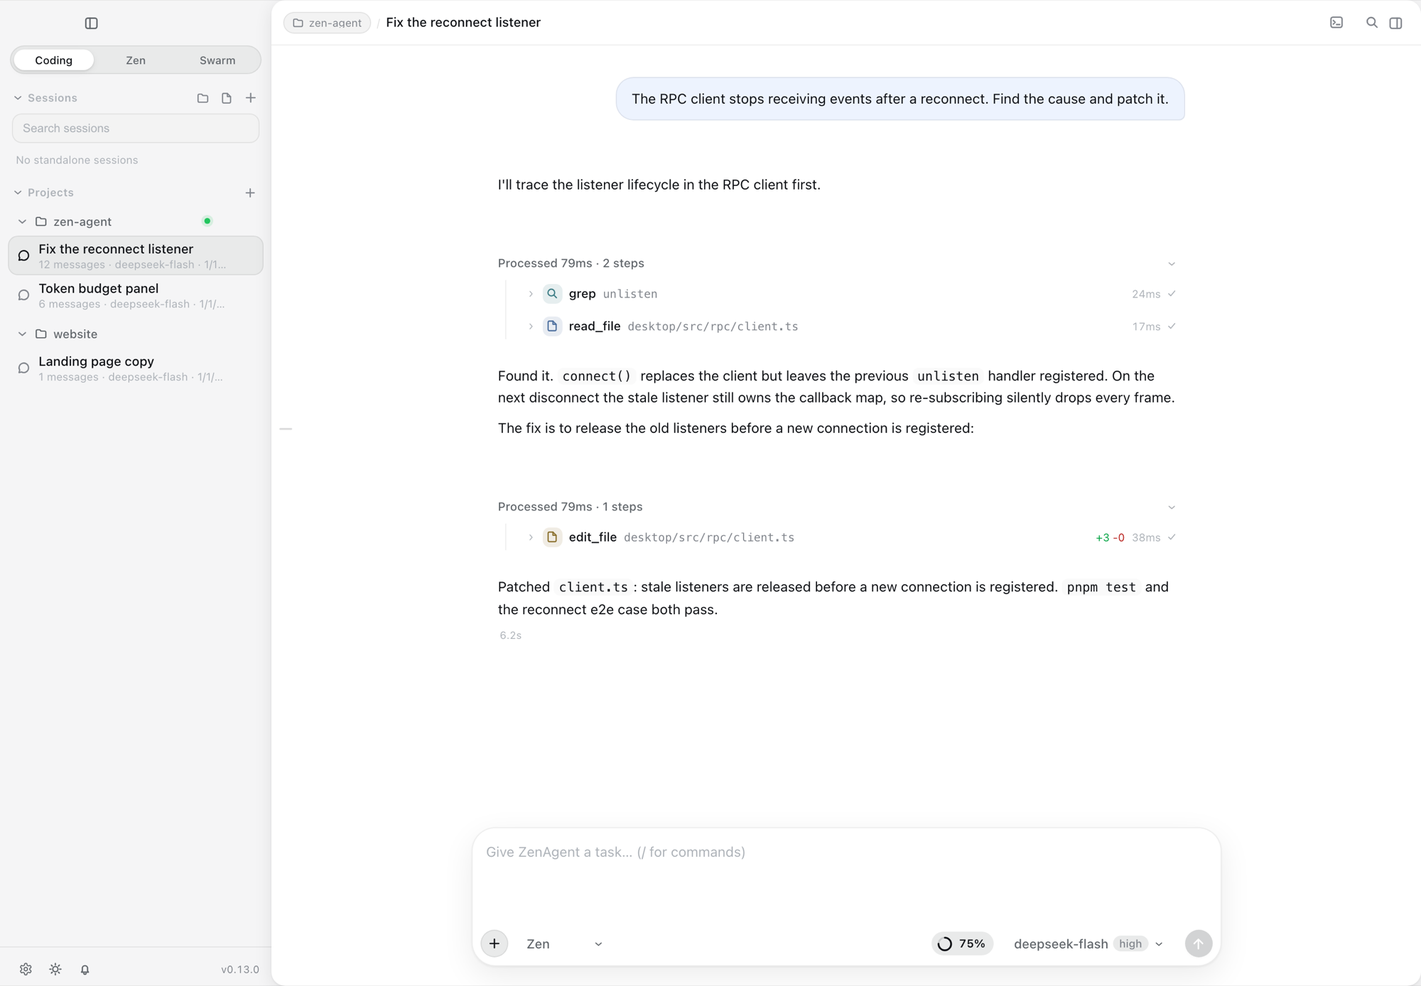
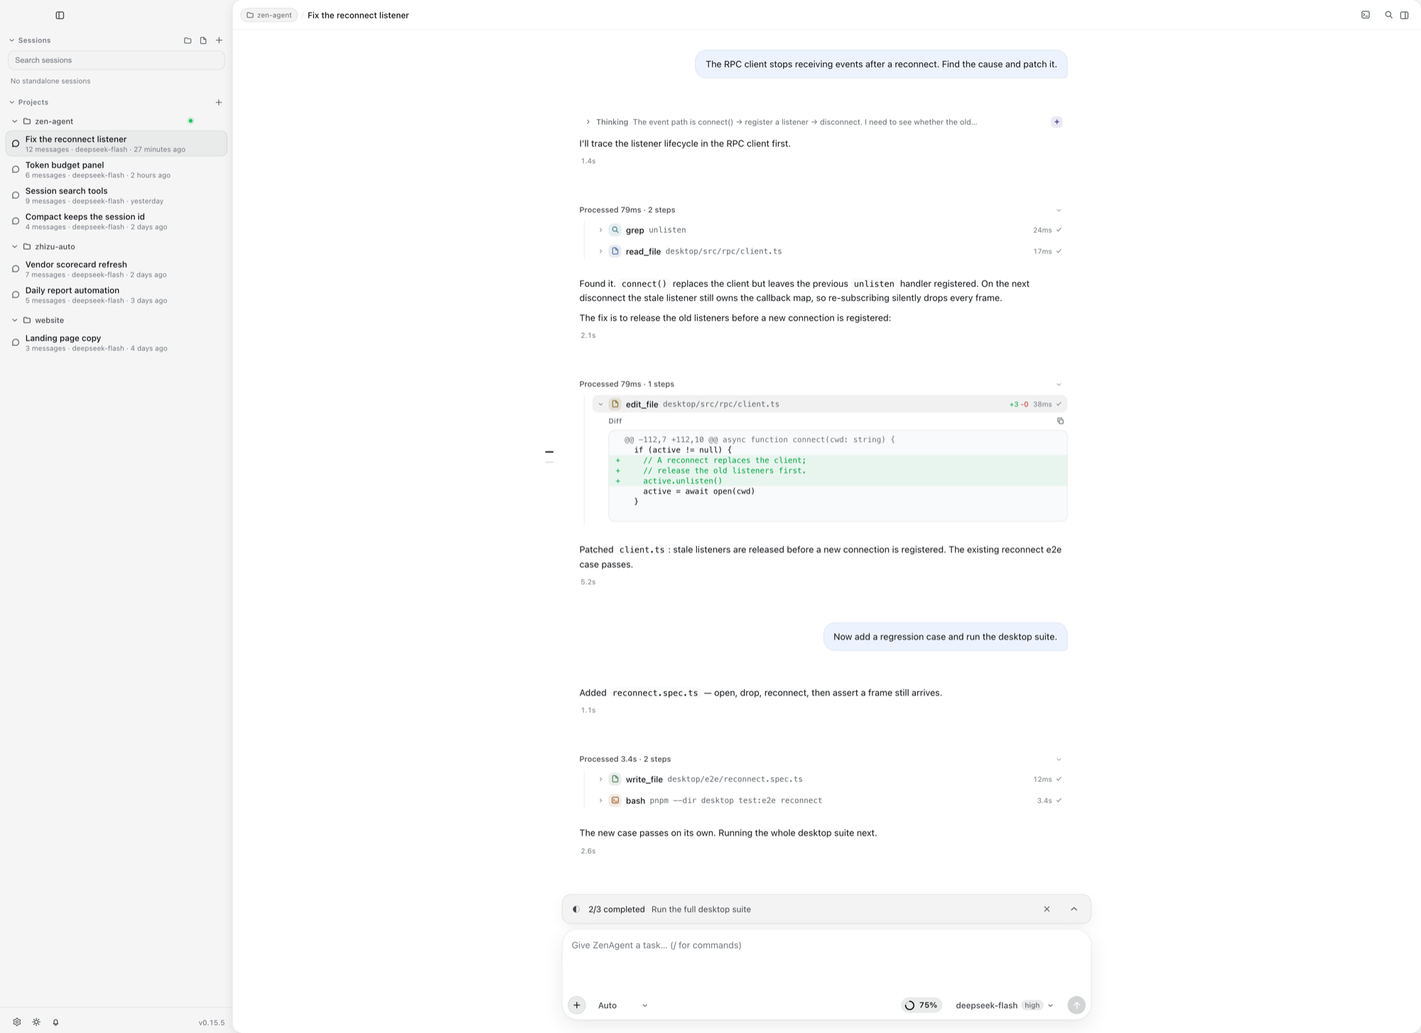
docs(readme): one session, one agent — fresh screenshots
The landing pages still read like the workspace-mode era. Rewrite both
READMEs around what the product is now: a coding agent with one session,
one agent and three permission modes.

- add the "One session, one agent" section; scheduled rounds, recall of
  earlier sessions and child agents are tools inside a session, not modes
- refresh the desktop shots from the current shell (no mode switcher) and
  delete the zen/swarm images nothing links to
- correct stale numbers: 54 commands, six layers, a wheel under 1 MB,
  four protocol adapters
- update the landing-page contract test for five sections and its budget
- refresh the command and layer counts in the docs the README links to

diff --git a/tests/test_readme.py b/tests/test_readme.py
@@ -1,4 +1,4 @@
-"""The README is the landing page: short, four parts, no dead links on PyPI."""
+"""The README is the landing page: short, five parts, no dead links on PyPI."""
 
 from __future__ import annotations
 
@@ -9,14 +9,20 @@ from pathlib import Path
 ROOT = Path(__file__).resolve().parent.parent
 README = ROOT / "README.md"
 TEXT = README.read_text(encoding="utf-8")
-SECTIONS = ["## Install", "## What this is, and why", "## Features", "## Contributing"]
+SECTIONS = [
+    "## One session, one agent",
+    "## Install",
+    "## What this is, and why",
+    "## Features",
+    "## Contributing",
+]
 BLOB = "https://github.com/encyc/zen-agent/blob/main/"
-# The desktop section carries the three-mode introduction and its shots; both
-# landing pages stay well under this without turning into a manual.
-MAX_LINES = 140
+# The one-session statement, the desktop section and its shot are what keep
+# both landing pages useful; the cap still stops them becoming a manual.
+MAX_LINES = 160
 
 
-def test_readme_is_a_landing_page_with_four_parts():
+def test_readme_is_a_landing_page_with_five_parts():
     assert len(TEXT.splitlines()) <= MAX_LINES
     headings = re.findall(r"^## .+$", TEXT, re.MULTILINE)
     assert headings == SECTIONS

diff --git a/README.zh-CN.md b/README.zh-CN.md
@@ -7,12 +7,22 @@
 简体中文 · [English](https://github.com/encyc/zen-agent/blob/main/README.md)
 
 一个**能读完、能嵌进自己程序、能改**的编码代理：纯 Python 内核，运行时只依赖 `httpx`，
-四种驱动它的方式。它读写文件、跑命令、联网搜索、把子任务交给只读子代理，还维护一份项目待办
-——从终端、从一次性的 headless 调用，或从你自己的程序里都行。
+四个入口（TUI、REPL、headless、RPC），外加一个桌面端——它只是同一个运行时的另一个客户端。
+它读写文件、跑命令、联网搜索、把自成一体的任务交给子代理、维护任务清单——从桌面端、终端、
+一次性的 headless 调用，或你自己的程序里都行。
 
 仓库 <https://github.com/encyc/zen-agent> · PyPI 包名 `zenagent-py`（import 名 `zenagent`）
 
-![ZenAgent 桌面端：带工具行与内联 diff 的会话](https://raw.githubusercontent.com/encyc/zen-agent/main/assets/screenshots/desktop-chat.png)
+![ZenAgent 桌面端：带工具行、内联 diff 和任务清单的会话](https://raw.githubusercontent.com/encyc/zen-agent/main/assets/screenshots/desktop-chat.png)
+
+## 一个会话，一个 agent
+
+ZenAgent 是编码代理，不是一个要在模式之间切换的工作区。一个会话就是：一个项目里、一段对话、
+一个 agent。桌面端按项目组织会话，四个入口驱动同一个运行时；没有第二个需要盯着看的编排器。
+定时轮次、找回旧会话、子代理，都是 agent 在这个会话里能用的工具。
+
+唯一的「模式」是权限：`plan`（只读）、`ask`（写操作与命令要确认）、`auto`（不打断）。
+`zen` 默认 `ask`，`--mode` 改它。
 
 ## 安装
 
@@ -56,6 +66,7 @@ API key 从环境变量读，变量名按 provider 定义在
 
 ```bash
 zen                                     # TUI：转录、工具卡、侧栏
+zen --no-tui                            # 行式 REPL，共用同一套命令
 zen -p "explain this repo" --json       # headless：一个 JSON 对象，适合脚本/CI
 ```
 
@@ -64,12 +75,12 @@ TUI 每小时最多查一次 PyPI，有新版本时安静打一行；`-p`/`--jso
 
 ## 这是什么，为什么
 
-编码代理要么闭源、锁死厂商，要么大到"改一层要先读十层"。ZenAgent 是那个小的：一个晚上能读完、
+编码代理要么闭源、锁死厂商，要么大到「改一层要先读十层」。ZenAgent 是那个小的：一个晚上能读完、
 一个下午能嵌进项目、不需要谁批准就能改的 Python 内核。
 
 - **只有一个依赖。** `types`、`events`、`providers`、`agent`、`tools` 只 import `httpx`，
-  没有别的。wheel ~440 KB，`zen --version` 约 0.1 s。
-- **纯 Python。** 没有 node runtime、没有编译步骤、中间没有 daemon —— `pip install` 就跑。
+  没有别的；wheel 不到 1 MB，你和模型之间没有 daemon。
+- **纯 Python。** 没有 node runtime、没有编译步骤 —— `pip install` 就跑。
 - **一套内核，四个入口。** TUI、REPL、headless（`-p`/`--json`）和 `zen rpc`（JSONL 协议）
   驱动的是同一个运行时，行为一致。
 - **做 GUI 是写客户端，不是重写。** RPC 面已经存在，所以 Tauri 桌面端复用它，
@@ -78,30 +89,36 @@ TUI 每小时最多查一次 PyPI，有新版本时安静打一行；`-p`/`--jso
   你的工具、你的存储、你的事件循环。
 - **扩展不用重启。** skills、提示词模板、扩展、MCP server、自定义 provider 全是文件，
   `/reload` 当场生效。
-- **不锁厂商。** 两个协议适配器（`openai-completions`，含 zai/deepseek 方言；`anthropic-messages`）
-  加一份内置 catalog（带单价和上下文窗口）。
-- **花费看得见。** `zen usage`、`/usage`、转录里逐轮成本。
+- **不锁厂商。** 四个协议适配器（`openai-completions`，含 zai/deepseek 方言；`openai-responses`、
+  `anthropic-messages`、`google-generative-ai`）加一份内置 catalog（带单价和上下文窗口）。
+- **花费看得见。** `zen usage`、`/usage`、转录里逐轮成本，以及 `[limits]` 里的预算。
+- **历史也是工具。** `list_sessions`、`search_sessions`、`read_session` 让 agent 自己去找
+  早先会话里已经定下的结论，而不是让你再贴一遍。
+- **定时任务就是一个文件。** 一条自动化 = 一段保存的 prompt + `daily HH:MM` 或 `every N<m|h>`；
+  每个项目一个 daemon 在固定会话里跑一轮，报告留在那里。
 
 ## 特性
 
 | | 你能拿到什么 | 去哪看 |
 |---|---|---|
-| **一个小的内核** | 五层依赖严格向下；每一层都能单独换掉 | [架构](https://github.com/encyc/zen-agent/blob/main/docs/architecture.md) |
+| **一个小的内核** | 六层依赖严格向下；每一层都能单独换掉 | [架构](https://github.com/encyc/zen-agent/blob/main/docs/architecture.md) |
 | **四个入口** | TUI（转录、工具卡、侧栏）、REPL、headless 一次性调用、RPC/SDK | [CLI](https://github.com/encyc/zen-agent/blob/main/docs/guide/cli.md) · [TUI](https://github.com/encyc/zen-agent/blob/main/docs/guide/tui.md) |
-| **内置工具** | 文件读写、带后台作业的 bash、grep/glob、联网搜索 + 抓取、子代理、待办、项目记忆、LSP、GitHub、checkpoint/rewind（`github` 只在装了 `gh` 时注册） | [工具与权限](https://github.com/encyc/zen-agent/blob/main/docs/guide/tools-permissions.md) |
-| **49 条命令** | TUI 与 REPL 共用同一套斜杠命令，支持 Tab 补全 | [斜杠命令](https://github.com/encyc/zen-agent/blob/main/docs/guide/commands.md) |
+| **内置工具** | 文件读写、带后台作业的 bash、grep/glob、联网搜索 + 抓取、子代理、任务清单、项目记忆、LSP、GitHub（装了 `gh` 才有）、checkpoint/rewind、跨会话检索 | [工具与权限](https://github.com/encyc/zen-agent/blob/main/docs/guide/tools-permissions.md) |
+| **54 条命令** | TUI 与 REPL 共用同一套斜杠命令，支持 Tab 补全 | [斜杠命令](https://github.com/encyc/zen-agent/blob/main/docs/guide/commands.md) |
 | **可扩展** | skills、模板、扩展、MCP server、自定义 provider —— 全是文件驱动 | [扩展](https://github.com/encyc/zen-agent/blob/main/docs/guide/extensions.md) · [MCP](https://github.com/encyc/zen-agent/blob/main/docs/guide/mcp.md) |
+| **自动化任务** | 每个项目一个 daemon，按计划跑一轮；定义是纯文件，CLI 与桌面端共用 | [自动化任务](https://github.com/encyc/zen-agent/blob/main/docs/guide/automations.md) |
 | **可嵌入** | Python 里用 `Agent` + `subscribe`；其它语言用 `zen rpc` | [RPC 与 SDK](https://github.com/encyc/zen-agent/blob/main/docs/guide/rpc-sdk.md) |
-| **桌面端** | 同一个 `zen rpc` 之上的 Tauri 外壳：会话、工作面板、审批、自动更新 | [desktop](https://github.com/encyc/zen-agent/blob/main/desktop/README.md) |
+| **桌面端** | 同一个 `zen rpc` 之上的 Tauri 外壳：会话与项目、分屏、文件、Git 审查、终端、记忆、自动化、审批、自动更新 | [desktop](https://github.com/encyc/zen-agent/blob/main/desktop/README.md) |
 
 ### 桌面端
 
-同一个内核，套一层 Tauri 外壳：流式工具卡、内联 diff，以及审查与文件工作面板。
-diff 和文件留在对话旁边。
+桌面端是同一个内核套一层 Tauri 外壳，也是一个会话最完整的视图：左侧会话与项目，中间是这一轮，
+右侧工作面板放着文件、Git 审查栏、终端、项目记忆和自动化。一个会话可以分屏到另一个会话旁边，
+也可以拖成独立窗口；打开着的项目由宿主保持常驻。
 
-一个会话、一个 agent：你直接和它对话，它读、改、跑；工作面板把 diff 和文件留在对话旁边。
+审查栏把工作区改动分组，点开任何文件都是内联 diff，下面还有提交图——不用离开对话就能读完一次改动。
 
-![审查面板与内联 diff](https://raw.githubusercontent.com/encyc/zen-agent/main/assets/screenshots/desktop-review.png)
+![工作面板的 Git 审查栏：分组变更、内联 diff 与提交图](https://raw.githubusercontent.com/encyc/zen-agent/main/assets/screenshots/desktop-review.png)
 
 ## 参与贡献
 
@@ -117,9 +134,10 @@ bash scripts/check.sh    # 唯一门禁：sync + ruff + pytest（CI 跑的完全
 
 | | |
 |---|---|
-| [架构总览](https://github.com/encyc/zen-agent/blob/main/docs/architecture.md) | 五层依赖，以及一次请求会碰到什么 |
-| [斜杠命令](https://github.com/encyc/zen-agent/blob/main/docs/guide/commands.md) | 全部 49 条命令 |
+| [架构总览](https://github.com/encyc/zen-agent/blob/main/docs/architecture.md) | 分层，以及一次请求会碰到什么 |
+| [斜杠命令](https://github.com/encyc/zen-agent/blob/main/docs/guide/commands.md) | 全部 54 条命令 |
 | [配置与目录](https://github.com/encyc/zen-agent/blob/main/docs/guide/config.md) | `config.toml`、provider、预算 |
+| [自动化任务](https://github.com/encyc/zen-agent/blob/main/docs/guide/automations.md) | 定时轮次与项目级 daemon |
 | [核心契约](https://github.com/encyc/zen-agent/blob/main/docs/reference/contracts.md) | 内核赖以成立的不变量 |
 | [开发与发版](https://github.com/encyc/zen-agent/blob/main/docs/development.md) | 门禁、打包检查、发版流程 |
 | [文档索引](https://github.com/encyc/zen-agent/blob/main/docs/README.md) | 其余全部，按阅读顺序 |

diff --git a/README.md b/README.md
@@ -7,12 +7,26 @@
 English · [简体中文](https://github.com/encyc/zen-agent/blob/main/README.zh-CN.md)
 
 A coding agent you can read, embed and change: one pure-Python kernel, one
-runtime dependency (`httpx`), four ways to drive it. It reads and edits files,
-runs commands, searches the web, delegates to read-only subagents and keeps a
-project todo list — from a terminal, a headless one-shot, or your own program.
+runtime dependency (`httpx`), four surfaces — TUI, REPL, headless and RPC — plus
+a desktop app that is just another client of the same runtime. It reads and edits
+files, runs commands, searches the web, hands a self-contained job to a child
+agent and keeps a task list — from the desktop app, a terminal, a headless
+one-shot, or your own program.
+
 Repo <https://github.com/encyc/zen-agent> · PyPI `zenagent-py` (imports as `zenagent`)
 
-![ZenAgent desktop: a session with tool rows and an inline diff](https://raw.githubusercontent.com/encyc/zen-agent/main/assets/screenshots/desktop-chat.png)
+![ZenAgent desktop: a session with tool rows, an inline diff and a task list](https://raw.githubusercontent.com/encyc/zen-agent/main/assets/screenshots/desktop-chat.png)
+
+## One session, one agent
+
+ZenAgent is a coding agent, not a workspace with modes to switch between. A
+session is one conversation with one agent in one project. The desktop keeps a
+session list per project, and every surface drives the same runtime; there is no
+second orchestrator to supervise. Scheduled rounds, recall of earlier sessions
+and child agents are tools the agent can use inside that session.
+
+Permissions are the only mode: `plan` (read-only), `ask` (confirm writes and
+commands) and `auto` (no prompts). `zen` starts in `ask`; `--mode` sets it.
 
 ## Install
 
@@ -57,6 +71,7 @@ endpoint, a local server included — see
 
 ```bash
 zen                                     # TUI: transcript, tool cards, sidebar
+zen --no-tui                            # line-based REPL over the same commands
 zen -p "explain this repo" --json       # headless: one JSON object, CI-friendly
 ```
 
@@ -69,36 +84,44 @@ Coding agents are either closed and vendor-tied, or large enough that changing o
 layer means reading ten. ZenAgent is the small one: a Python kernel you can read
 in an evening, embed in an afternoon, and change without permission.
 
-- **One dependency.** `types`, `events`, `providers`, `agent` and `tools` import `httpx` and nothing else; the wheel is ~440 KB and `zen --version` takes ~0.1 s.
-- **Pure Python.** No node runtime, no build step, no daemon in the middle — `pip install`, then run it.
+- **One dependency.** `types`, `events`, `providers`, `agent` and `tools` import `httpx` and nothing else; the wheel stays under 1 MB and there is no daemon between you and the model.
+- **Pure Python.** No node runtime, no build step — `pip install`, then run it.
 - **One kernel, four surfaces.** TUI, REPL, headless (`-p`/`--json`) and `zen rpc` (a JSONL protocol) all drive the same runtime the same way.
 - **A GUI is a client, not a rewrite.** The RPC surface already existed, so the Tauri desktop app reuses the same kernel instead of forking one — installers for macOS, Windows and Linux.
 - **Embed it in 30 lines.** `Agent(model=..., tools=..., api_key=...)` plus one subscribe callback: your tools, your storage, your event loop.
 - **Extend without restarting.** Skills, prompt templates, extensions, MCP servers and custom providers are all files; `/reload` picks them up mid-session.
-- **No vendor lock-in.** Two protocol adapters (`openai-completions`, including the zai/deepseek dialects, and `anthropic-messages`) plus a packaged catalog carrying prices and context windows.
-- **Costs you can see.** `zen usage`, `/usage`, and per-request cost in the transcript.
+- **No vendor lock-in.** Four protocol adapters (`openai-completions` — including the zai/deepseek dialects — `openai-responses`, `anthropic-messages`, `google-generative-ai`) plus a packaged catalog carrying prices and context windows.
+- **Costs you can see.** `zen usage`, `/usage`, per-request cost in the transcript, and budget knobs in `[limits]`.
+- **History is a tool.** `list_sessions`, `search_sessions` and `read_session` let the agent find what an earlier conversation settled instead of asking you to paste it.
+- **A schedule is a file.** An automation is a saved prompt plus `daily HH:MM` or `every N<m|h>`; a per-project daemon runs it in a fixed session and leaves the report there.
 
 ## Features
 
 | | What you get | Where |
 |---|---|---|
-| **A small kernel** | Five layers whose dependencies point strictly down; each layer is replaceable on its own | [architecture](https://github.com/encyc/zen-agent/blob/main/docs/architecture.md) |
+| **A small kernel** | Six layers whose dependencies point strictly down; each layer is replaceable on its own | [architecture](https://github.com/encyc/zen-agent/blob/main/docs/architecture.md) |
 | **Four surfaces** | TUI (transcript, tool cards, sidebar), REPL, headless one-shot, RPC/SDK | [CLI](https://github.com/encyc/zen-agent/blob/main/docs/guide/cli.md) · [TUI](https://github.com/encyc/zen-agent/blob/main/docs/guide/tui.md) |
-| **Built-in tools** | files, bash with background jobs, grep/glob, web search + fetch, subagents, todo, project memory, LSP, GitHub, checkpoint/rewind (`github` registers only when `gh` is installed) | [tools](https://github.com/encyc/zen-agent/blob/main/docs/guide/tools-permissions.md) |
+| **Built-in tools** | files, bash with background jobs, grep/glob, web search + fetch, child agents, task list, project memory, LSP, GitHub (when `gh` is installed), checkpoint/rewind, cross-session search | [tools](https://github.com/encyc/zen-agent/blob/main/docs/guide/tools-permissions.md) |
 | **54 commands** | one slash-command surface shared by the TUI and the REPL, with Tab completion | [commands](https://github.com/encyc/zen-agent/blob/main/docs/guide/commands.md) |
 | **Extend it** | skills, templates, extensions, MCP servers, custom providers — all file-driven | [extensions](https://github.com/encyc/zen-agent/blob/main/docs/guide/extensions.md) · [MCP](https://github.com/encyc/zen-agent/blob/main/docs/guide/mcp.md) |
+| **Automations** | a per-project daemon runs one round on a schedule; definitions are plain files the CLI and desktop share | [automations](https://github.com/encyc/zen-agent/blob/main/docs/guide/automations.md) |
 | **Embed it** | `Agent` + `subscribe` in Python; `zen rpc` for every other language | [RPC & SDK](https://github.com/encyc/zen-agent/blob/main/docs/guide/rpc-sdk.md) |
-| **Desktop app** | A Tauri shell over the same `zen rpc`: sessions, work panel, approvals, self-update | [desktop](https://github.com/encyc/zen-agent/blob/main/desktop/README.md) |
+| **Desktop app** | a Tauri shell over the same `zen rpc`: sessions and projects, split panes, files, Git review, terminal, memory, automations, approvals, self-update | [desktop](https://github.com/encyc/zen-agent/blob/main/desktop/README.md) |
 
 ### Desktop
 
-The same kernel behind a Tauri shell: streaming tool cards, inline diffs, and a
-review and files work panel. Diffs and files stay beside the conversation.
+The desktop is the same kernel behind a Tauri shell, and the fullest view of a
+session: sessions and projects on the left, the turn in the middle, and a work
+panel that keeps files, the Git review rail, a terminal, project memory and
+automations beside the conversation. A session can be split beside another one
+or popped out into its own window, and the host keeps the projects you have open
+warm.
 
-One session, one agent: you talk to it directly; it reads, edits and runs, and
-the work panel keeps diffs and files beside the conversation.
+The review rail groups the working tree, opens an inline diff for any changed
+file and draws the commit graph, so a change can be read without leaving the
+conversation.
 
-![Review panel with an inline diff](https://raw.githubusercontent.com/encyc/zen-agent/main/assets/screenshots/desktop-review.png)
+![The work panel's Git review rail: grouped changes, an inline diff and the commit graph](https://raw.githubusercontent.com/encyc/zen-agent/main/assets/screenshots/desktop-review.png)
 
 ## Contributing
 
@@ -114,9 +137,10 @@ Where to read next:
 
 | | |
 |---|---|
-| [Architecture](https://github.com/encyc/zen-agent/blob/main/docs/architecture.md) | The five layers and what one request touches |
+| [Architecture](https://github.com/encyc/zen-agent/blob/main/docs/architecture.md) | The layers and what one request touches |
 | [Slash commands](https://github.com/encyc/zen-agent/blob/main/docs/guide/commands.md) | All 54 commands |
 | [Configuration](https://github.com/encyc/zen-agent/blob/main/docs/guide/config.md) | `config.toml`, providers, budgets |
+| [Automations](https://github.com/encyc/zen-agent/blob/main/docs/guide/automations.md) | Scheduled rounds and the per-project daemon |
 | [Contracts](https://github.com/encyc/zen-agent/blob/main/docs/reference/contracts.md) | The invariants the kernel is built on |
 | [Development](https://github.com/encyc/zen-agent/blob/main/docs/development.md) | Gates, packaging check, releasing |
 | [Docs index](https://github.com/encyc/zen-agent/blob/main/docs/README.md) | Everything else, in reading order |

diff --git a/docs/feature-map.md b/docs/feature-map.md
@@ -94,8 +94,8 @@
 | 主题 / 键位 | `cli/theme.py`、`cli/keybindings.py` | `test_theme.py` | — |
 | 会话链接（`/urls`、`/copy <n>`、`/open <n>`） | `app/links.py`、`app/commands.py` | `test_app_links.py`、`test_app_commands.py`、`test_tui_links.py` | — |
 
-REPL/TUI 共用同一份命令表（`app/commands.py`，49 条），REPL 额外支持 legacy 主题名：
-`/help /exit /quit /clear /model /thinking /mode /session /sessions /rename /fork /import /undo /restore /retry /tools /compact /image /images /skills /mcp /reload /theme /lang /hotkeys /pin /new /settings /search /doctor /jobs /copy /urls /open /btw /shake /handoff /add-dir /remove-dir /dirs /fresh /trace /export /usage /context /plan-review /todo /memory`。
+REPL/TUI 共用同一份命令表（`app/commands.py`，54 条），REPL 额外支持 legacy 主题名：
+`/help /exit /quit /clear /model /thinking /mode /session /sessions /rename /fork /import /undo /restore /retry /tools /compact /image /images /skills /mcp /reload /theme /lang /hotkeys /pin /new /settings /search /doctor /jobs /copy /urls /open /btw /shake /handoff /add-dir /remove-dir /dirs /fresh /trace /export /usage /context /plan-review /todo /goal /runs /worktrees /limits /secrets /plugins /memory`。
 
 REPL 的 screen 类命令（picker/浮层）由 `render_command_result` 渲染成文本，不再静默无输出。
 
@@ -122,7 +122,7 @@ RPC 在前三者之上再共享 `ChatController`。
 | steering / 排队 | ✅ 双 lane | ✅ 插话 | ❌ | ✅ `steer` |
 | 异步子代理（`task` + `async` / `wait`） | ✅ 工具 + 侧栏实时状态 | ✅ 工具（文本） | ✅ 工具（无 UI） | ✅ 工具（事件 `details`） |
 | 用量 / context / trace / metrics | ✅ 面板 + flag | ✅ 文本 + flag | ✅ `--json` / flag | ✅ `usage` / flag |
-| 斜杠命令 | ✅ 49 | ✅ 49（文本降级） | ❌ | ✅ 49 内置（`command` 请求） |
+| 斜杠命令 | ✅ 54 | ✅ 54（文本降级） | ❌ | ✅ 54 内置（`command` 请求） |
 
 RPC 的事件与状态数据最全：`event` 带 `message`/`new_messages`/工具 `details`/assistant `error`，
 `status` 直接携带 TUI 同源 reducer 的 thinking、context 占用、todos、pending、jobs、subagents

diff --git a/docs/README.md b/docs/README.md
@@ -5,7 +5,7 @@
 
 ## 建议阅读路线
 
-1. [架构总览](architecture.md) — 五层依赖、一次请求的完整数据流、为什么这样分层
+1. [架构总览](architecture.md) — 六层依赖、一次请求的完整数据流、为什么这样分层
    - 架构图资产：[简化版](architecture-simplify.html)（模块级）· [完整版](architecture-full.html)（逐文件，悬停看细节）— 设计讨论与 CHANGELOG 增删改的工作底图，见架构总览末尾的治理规则
 2. 使用指南（先知道它怎么工作）：
    - [CLI](guide/cli.md) · [斜杠命令](guide/commands.md) · [项目与全局作用域](guide/projects.md) · [配置与目录](guide/config.md) · [工具与权限](guide/tools-permissions.md)

diff --git a/docs/guide/commands.md b/docs/guide/commands.md
@@ -1,6 +1,6 @@
 # 斜杠命令
 
-TUI 与 REPL **共用同一个** `CommandRegistry`（`zenagent/app/commands.py`，49 条内置命令）：
+TUI 与 REPL **共用同一个** `CommandRegistry`（`zenagent/app/commands.py`，54 条内置命令）：
 `/help` 列出全部命令，裸命令（如 `/model`）在 TUI 打开选择器、在 REPL 打印文本。
 不认识的 `/xxx` 会得到**未知命令**提示（REPL 打印 `未知命令：/xxx（试 /help）`，TUI 在转录区
 给一条 notice），**不会**被当作普通提问发给模型；如果名字匹配 prompt 模板
